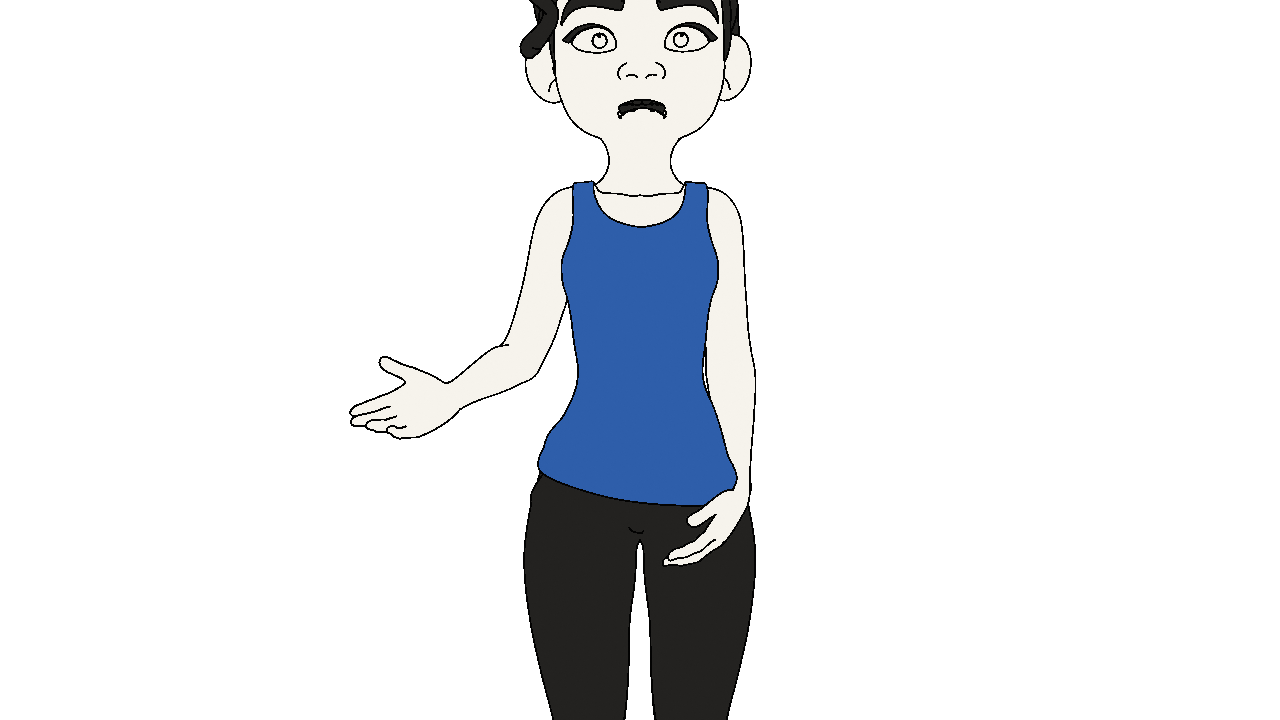
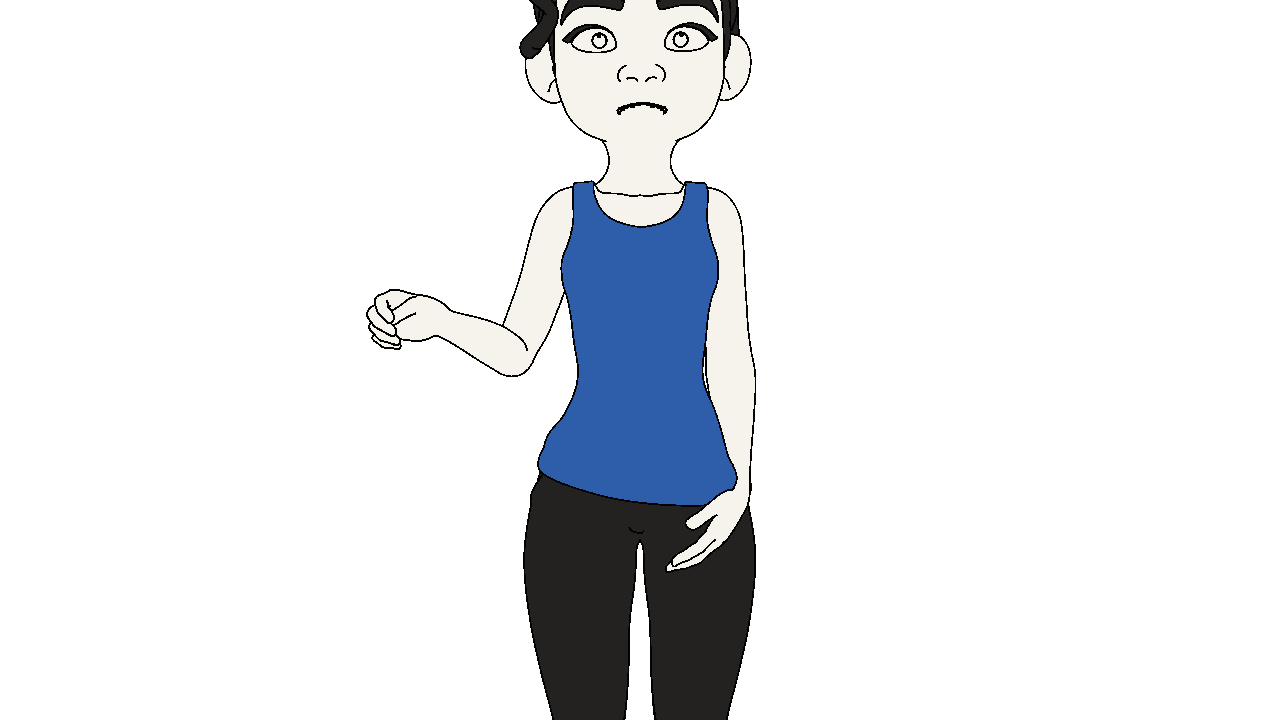
charpack-lineart: fix speech mouth, rest hand, gesture arms, face liveness
- mouth: replace per-syllable random visemes with a smooth jaw envelope
  (consonant dips, modest vowels, wider stressed vowels, sigma 85ms
  coarticulation); jaw_deg 20->11, mouth scale stretch removed
- hands: rest_thigh/relaxed reposed (softer natural curl); emphasis
  becomes a readable soft fist; new 'fist' pose; wrist twist applied
  absolutely (palm-up is world-space, not mirrored)
- gestures: arms rise to chest zone in front of torso; present/question
  palms up; wave beside head palm-out
- face: brow pop + slight lid widen + head nod on every stressed
  syllable so speech has continuous expression; stronger mood contrast
  (smile squint, serious furrow); emphasis gets a 2-beat chop

diff --git a/engine_sources/charpack-lineart/rain_performer.py b/engine_sources/charpack-lineart/rain_performer.py
@@ -36,7 +36,7 @@ B = dict(head='FK-Head', neck='FK-Neck', chest='FK-Chest', spine='FK-Spine', pel
          finger='FK-{F}{N}.{S}', thumb='FK-Thumb{N}.{S}')
 FC = dict(lid_upper='ACT-Eyelid_Upper.{S}', lid_close=-0.030, brow='MSTR-Eyebrow.{S}', brow_up=0.012,
           eyes='TGT-Eyes', gaze=0.10, mouth='MSTR-Mouth', lip_bot='MSTR-LowerLip', lip_top='MSTR-UpperLip',
-          lip_open=0.016, corner='ACT-Lips_Corner.{S}', corner_up=0.008, jaw_sign=-1, jaw_deg=20)
+          lip_open=0.016, corner='ACT-Lips_Corner.{S}', corner_up=0.008, jaw_sign=-1, jaw_deg=11)
 FINGERS = ('Index', 'Middle', 'Ring', 'Pinky')
 INK = ('hair', 'eyebrow', 'eyelash', 'shoe', 'jeans', 'eyedot', 'gums', 'tongue', 'teeth',
        'viewport_black', 'hairband', 'laces')
@@ -168,11 +168,12 @@ def local_loc(pb, x=0, y=0, z=0):
 
 # ---------- hand poses ----------
 HAND = {
- 'rest_thigh': dict(curl=((8, 16, 10), (12, 22, 12), (16, 26, 14), (20, 30, 16)), spread=(-4, -1, 2, 5), thumb=(6, 4)),
- 'relaxed':    dict(curl=((12, 22, 12), (16, 28, 16), (20, 32, 18), (26, 36, 20)), spread=(-3, 0, 3, 6), thumb=(10, 6)),
- 'present':    dict(curl=((0, 4, 2), (3, 8, 4), (8, 12, 6), (12, 16, 8)), spread=(-9, -3, 4, 10), thumb=(-8, -2)),
- 'open':       dict(curl=((0, 2, 0), (0, 3, 0), (4, 6, 2), (8, 10, 4)), spread=(-12, -4, 5, 13), thumb=(-14, -4)),
- 'point_soft': dict(curl=((0, 3, 2), (30, 42, 28), (36, 46, 32), (40, 50, 34)), spread=(-4, 0, 2, 4), thumb=(8, 14)),
+ 'rest_thigh': dict(curl=((4, 12, 6), (8, 17, 8), (12, 21, 10), (16, 25, 12)), spread=(-6, -1, 3, 8), thumb=(9, 6)),
+ 'relaxed':    dict(curl=((8, 17, 8), (12, 22, 10), (16, 26, 12), (20, 30, 14)), spread=(-5, 0, 4, 8), thumb=(12, 7)),
+ 'present':    dict(curl=((0, 5, 3), (2, 7, 5), (6, 11, 7), (10, 15, 9)), spread=(-10, -3, 5, 11), thumb=(-12, -3)),
+ 'open':       dict(curl=((0, 3, 0), (0, 4, 0), (3, 6, 2), (7, 9, 4)), spread=(-13, -4, 5, 14), thumb=(-16, -5)),
+ 'point_soft': dict(curl=((0, 4, 2), (34, 44, 30), (40, 50, 36), (44, 54, 40)), spread=(-2, 1, 3, 5), thumb=(10, 14)),
+ 'fist':       dict(curl=((30, 42, 30), (38, 50, 38), (44, 54, 42), (48, 58, 46)), spread=(-2, 0, 2, 4), thumb=(22, 30)),
 }
 def lerp(a, b, u): return a + (b - a) * u
 def hand_pose(S, pa, pb_, u, sgn):
@@ -226,24 +227,32 @@ SEGS = score['segments']; FPS = score.get('fps', 24)
 T_END = SEGS[-1]['t'][1] + 0.4
 F1 = int(nums[1]) if len(nums) > 1 else int(T_END * FPS)
 
-# ---------- speech: syllable + viseme plan per segment ----------
-VIS = {'A': (1.0, 0.0, 0.6), 'E': (0.55, 0.35, 0.5), 'O': (0.7, -0.35, 0.3),
-       'M': (0.0, 0.0, 0.0), 'F': (0.35, -0.1, 0.9)}
+# ---------- speech: syllable stream + smooth mouth envelope ----------
+# Talking reads as rhythmic jaw bounces on syllable onsets, not random visemes.
+# Per-syllable targets: jaw amplitude (consonants ~closed, vowels mid, stressed
+# vowels wide), mouth width, lip part. Gaussian coarticulation smooths it all.
 def segment_syllables(seg, seed):
-    """deterministic syllable stream filling the segment; stress on first + every ~1.2s."""
+    """deterministic syllable stream filling the segment; stress on first + every ~1.15s.
+    each -> (onset, dur, (jaw,width,lip) target, stress)"""
     t0, t1 = seg['t']; dur = t1 - t0
     n = max(3, round(len(seg.get('text', '')) / 4.4))
-    n = min(n, int(dur / 0.11))
+    n = min(n, int(dur / 0.12))
     rng = random.Random(seed)
     out = []; t = t0 + 0.12; last_stress = -9
-    vp = ['A', 'E', 'O', 'A', 'M', 'F', 'E', 'O', 'A', 'E']
     for i in range(n):
-        d = 0.09 + 0.05 * rng.random()
+        d = 0.11 + 0.06 * rng.random()
         stress = 1 if (i == 0 or t - last_stress > 1.15) else 0
         if stress: last_stress = t
-        out.append((t, d, vp[(i + seed) % len(vp)] if i % 5 else 'A', stress))
-        t += d + 0.015 + 0.05 * rng.random() + (0.12 if rng.random() < 0.12 else 0)
-        if t > t1 - 0.1: break
+        v = rng.random()
+        if i % 6 == 5:          # consonant cluster: near-closed
+            tgt = (0.10 + 0.08 * v, 0.0, 0.15)
+        elif stress:            # stressed vowel opens wider
+            tgt = (0.52 + 0.22 * v, 0.05 + 0.25 * (v - 0.5), 0.55)
+        else:                   # ordinary vowel: modest open
+            tgt = (0.24 + 0.26 * v, -0.15 + 0.30 * rng.random(), 0.45)
+        out.append((t, d, tgt, stress))
+        t += d + 0.02 + 0.06 * rng.random() + (0.16 if rng.random() < 0.18 else 0)
+        if t > t1 - 0.08: break
     return out
 SYL = []
 for i, s in enumerate(SEGS):
@@ -258,12 +267,12 @@ def speaking_seg(t):
 def mouth_state(t):
     j = w = l = 0.0; wsum = 0.0
     for o, d, v, s, si in SYL:
-        c = o + d * 0.45; sig = d * 0.55
+        c = o + d * 0.45; sig = 0.085
         k = math.exp(-((t - c) / sig) ** 2)
-        J, W, Lp = VIS[v]; amp = 0.75 + 0.35 * s
+        J, W, Lp = v; amp = 0.8 + 0.3 * s
         j += k * J * amp; w += k * W; l += k * Lp; wsum += k
     if wsum < 1e-6: return 0.0, 0.0, 0.0
-    return min(1, j / max(wsum, 0.8)), w / max(wsum, 0.8), min(1, l / max(wsum, 0.8))
+    return min(0.8, j / max(wsum, 0.9)), max(-1, min(1, w / max(wsum, 0.9))), min(1, l / max(wsum, 0.9))
 
 # ---------- semantic director: intent -> scheduled gestures (VITA grammar) ----------
 INTENT_MAP = {'wave': 'wave', 'explain': 'present', 'emphasis': 'emphasis',
@@ -275,16 +284,20 @@ def auto_intent(seg):
     if tx.strip().endswith('!'): return 'emphasis'
     return 'explain' if seg.get('energy', 0.7) > 0.5 else 'none'
 
-# gesture shape vectors: (ua Y,Z deltas, fa X,Z, hand X,Y,Z) + hand pose target + face adds
+# gesture shape vectors: (ua Z,Y deltas -> abduct/swing, fa X,Z -> flex/twist,
+# hand X,Y,Z wrist add) + hand pose target + two-handed probability.
+# front-facing grammar: deliberate gestures rise to chest/chin zone in front of
+# the torso and drift toward the body's midline, palms angled to camera.
 GESTV = {
- 'present':  dict(ua=(34, -14), fa=(-52, 8),  h=(-10, -80, 0), hp='present', both=0.25),
- 'emphasis': dict(ua=(26, -10), fa=(-44, 5),  h=(-8, -60, 0),  hp='present', both=0.0),
- 'question': dict(ua=(30, -12), fa=(-50, 6),  h=(-6, -68, 0),  hp='open',    both=0.4),
- 'ack':      dict(ua=(16, -6),  fa=(-26, 3),  h=(-4, -40, 0),  hp='relaxed', both=0.0),
- 'wave':     dict(ua=(58, -18), fa=(-105, 2), h=(-8, -85, 0),  hp='open',    both=0.0),
+ 'present':  dict(ua=(24, -20), fa=(-86, 6),  h=(-14, 64, 8),  hp='present', both=0.25),
+ 'emphasis': dict(ua=(20, -14), fa=(-78, 4),  h=(-6, -30, 6),  hp='fist',    both=0.0),
+ 'question': dict(ua=(26, -16), fa=(-82, 5),  h=(-12, 60, 8),  hp='open',    both=0.5),
+ 'ack':      dict(ua=(12, -8),  fa=(-40, 3),  h=(-6, 34, 4),   hp='relaxed', both=0.0),
+ 'wave':     dict(ua=(62, -14), fa=(-112, 0), h=(-8, -70, 6),  hp='open',    both=0.0),
 }
 if os.environ.get('GESTV'):
-    GESTV.update(json.loads(os.environ['GESTV']))
+    for _k, _v in json.loads(os.environ['GESTV']).items():
+        GESTV.setdefault(_k, {}).update(_v)
 if os.environ.get('FORCEG'):
     _fk, _fa = os.environ['FORCEG'].split(',')
     for i, s in enumerate(SEGS): s['intent'] = 'none'
@@ -368,9 +381,9 @@ def gaze(t):
         x += dx * k; z += (0.12 if i % 4 == 1 else -0.06) * k
     return x, z
 
-MOOD = {'neutral': dict(corner=0.12, brow=0.0, lid=0.0),
-        'smile':   dict(corner=0.75, brow=0.15, lid=0.0),
-        'serious': dict(corner=0.02, brow=-0.25, lid=0.15)}
+MOOD = {'neutral': dict(corner=0.18, brow=0.0, lid=0.0),
+        'smile':   dict(corner=0.75, brow=0.2, lid=0.14),
+        'serious': dict(corner=0.02, brow=-0.35, lid=0.18)}
 def face_base(t):
     """mood of the active segment, eased 0.5s in from the previous segment's."""
     mi = 0
@@ -386,34 +399,48 @@ def face_base(t):
 
 def head_state(t):
     si = speaking_seg(t)
-    yaw = 1.6 * math.sin(t * 0.55)
-    pitch = 1.2 * math.sin(t * 0.9)
-    roll = 1.0 * math.sin(t * 0.42)
+    yaw = 1.8 * math.sin(t * 0.55)
+    pitch = 1.4 * math.sin(t * 0.9)
+    roll = 1.1 * math.sin(t * 0.42)
     if si is not None:
+        # each stressed syllable gets a visible emphasis nod; eased nods at phrase end
         for o, d, v, s, sii in SYL:
-            if sii == si and s: pitch += 4.0 * bump(t, o - 0.06, 0.4)
+            if sii == si and s:
+                pitch += 6.5 * bump(t, o - 0.05, 0.45)
+                yaw += 2.5 * bump(t, o - 0.10, 0.55)
         if SEGS[si].get('intent') == 'question' or auto_intent(SEGS[si]) == 'question':
-            roll += 3.5 * smooth(min(1, (t - SEGS[si]['t'][0]) / 0.8))
+            roll += 4.5 * smooth(min(1, (t - SEGS[si]['t'][0]) / 0.8))
             pitch -= 1.5
         if SEGS[si].get('intent') == 'think':
             yaw += 10 * bump(t, SEGS[si]['t'][0] + 0.4, 1.4); pitch -= 2 * bump(t, SEGS[si]['t'][0] + 0.4, 1.4)
     # acknowledge gestures also nod the head
     for t0, kind, dur, side, sii, en in GEST:
         if kind in ('ack', 'wave'):
-            pitch += 5 * bump(t, t0 + 0.05, 0.5)
+            pitch += 6 * bump(t, t0 + 0.05, 0.5)
         if kind == 'question':
-            roll += 2.5 * bump(t, t0 + 0.1, dur - 0.3)
+            roll += 3.0 * bump(t, t0 + 0.1, dur - 0.3)
     return yaw, pitch, roll
 
 def brows(t):
+    """brows lead speech: pop on every stressed syllable, rise for questions."""
     up = face_base(t)['brow']
     si = speaking_seg(t)
     if si is not None:
         for o, d, v, s, sii in SYL:
-            if sii == si and s: up += 0.5 * bump(t, o - 0.10, 0.45)
+            if sii == si and s: up += 0.85 * bump(t, o - 0.10, 0.45)
     for t0, kind, dur, side, sii, en in GEST:
-        if kind == 'question': up += 0.45 * bump(t, t0 + 0.05, dur - 0.3)
-    return max(-0.4, min(1, up))
+        if kind == 'question': up += 0.5 * bump(t, t0 + 0.05, dur - 0.3)
+        if kind == 'emphasis': up += 0.35 * bump(t, t0, 0.5)
+    return max(-0.5, min(1, up))
+
+def lids(t):
+    """eyes stay alive: slight widen on stressed syllables, soften on smile."""
+    w = 0.0
+    si = speaking_seg(t)
+    if si is not None:
+        for o, d, v, s, sii in SYL:
+            if sii == si and s: w += 0.22 * bump(t, o - 0.08, 0.4)
+    return min(0.5, w)
 
 def breathe(t): return 0.45 * math.sin(t * 1.85)
 
@@ -428,13 +455,13 @@ def apply(t):
     rots([(bone('head'), [('Z', yaw * 0.7), ('X', pitch * 0.7), ('Y', roll)])])
     # face
     jaw, width, lip = mouth_state(t)
-    b = blink(t); gx, gz = gaze(t); br = brows(t)
+    b = blink(t); gx, gz = gaze(t); br = brows(t); lid_w = lids(t)
     for S in ('L', 'R'):
-        local_loc(fbone('lid_upper', S), y=FC['lid_close'] * (b + fb['lid'] * 0.6))
+        local_loc(fbone('lid_upper', S), y=FC['lid_close'] * (b + fb['lid'] * 0.6 - lid_w * 0.5))
         local_loc(fbone('brow', S), y=FC['brow_up'] * br)
-        local_loc(fbone('corner', S), y=FC['corner_up'] * (fb['corner'] + 0.25 * max(0, width)))
+        local_loc(fbone('corner', S), y=FC['corner_up'] * (fb['corner'] + 0.3 * max(0, width) + 0.15 * jaw))
     local_loc(fbone('eyes'), x=FC['gaze'] * gx, z=FC['gaze'] * gz)
-    m = fbone('mouth'); m.scale = (1 + 0.22 * width, 1, 1)
+    m = fbone('mouth'); m.scale = (1 + 0.08 * width, 1, 1)
     local_loc(fbone('lip_bot'), y=-FC['lip_open'] * lip)
     local_loc(fbone('lip_top'), y=FC['lip_open'] * 0.35 * jaw)
     j = bone('jaw'); local_rot(j, x=FC['jaw_sign'] * FC['jaw_deg'] * jaw)
@@ -454,10 +481,12 @@ def apply(t):
             af = amp * (0.5 + 0.5 * lag_f); aw = amp * (0.4 + 0.6 * lag_w)
             rots([(bone('upperarm', S), [('Z', sgn * G['ua'][0] * amp), ('Y', sgn * G['ua'][1] * amp)])])
             fX = G['fa'][0] * af
-            if kind == 'emphasis':  # small beat down at stroke end
-                fX += -14 * amp * bump(u, 0.42, 0.22)
+            if kind == 'emphasis':  # two small beats down during the hold
+                fX += -16 * amp * bump(u, 0.45, 0.26) - 10 * amp * bump(u, 0.78, 0.22)
             rots([(bone('forearm', S), [('X', fX), ('Z', sgn * G['fa'][1] * af)])])
-            hw = [ ('Y', sgn * G['h'][1] * aw), ('X', G['h'][0] * aw), ('Z', sgn * G['h'][2] * aw)]
+            # wrist twist is a world-space target (palm up / palm out): applied
+            # absolutely, NOT mirrored per side like the arm abduction is
+            hw = [ ('Y', G['h'][1] * aw), ('X', G['h'][0] * aw), ('Z', sgn * G['h'][2] * aw)]
             if kind == 'wave' and u > 0.42:
                 hw[2] = ('Z', sgn * (G['h'][2] * aw + 16 * math.sin(2 * math.pi * 2.6 * (u - 0.42)) * amp))
             brots(bone('hand', S), hw)
